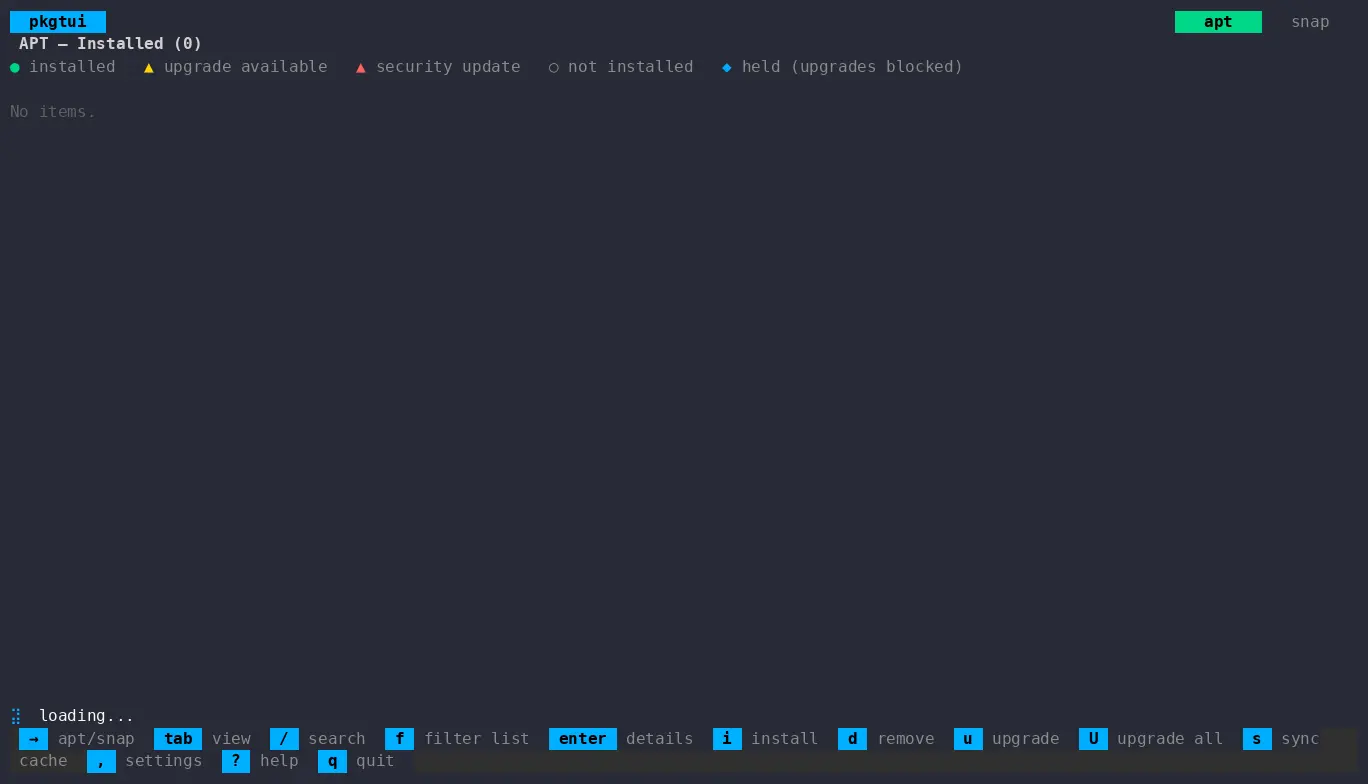
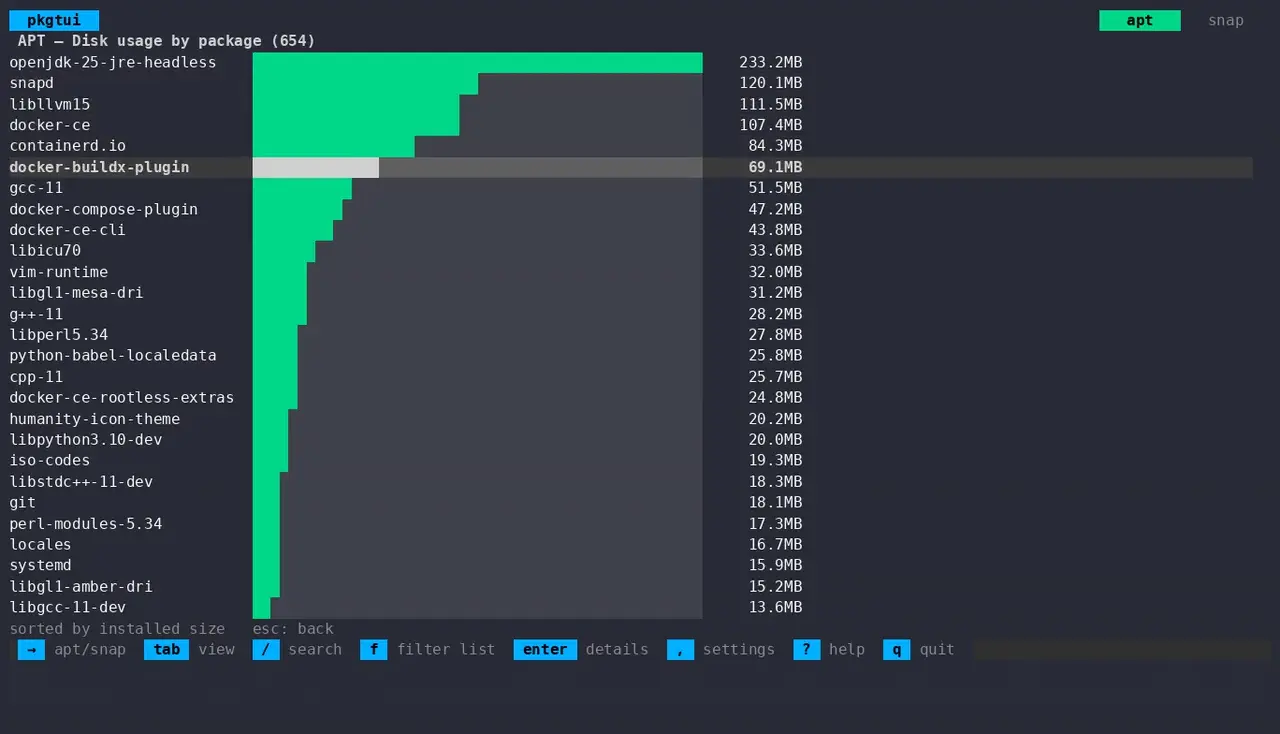
Show terminal demos in animated viewer with aligned preview cards

Changed region(s): [[0.0, 0.0, 0.875, 0.9891], [0.375, 0.8692, 0.75, 0.8992], [0.9062, 0.9292, 0.9688, 0.9591]]

diff --git a/src/styles/global.css b/src/styles/global.css
@@ -299,13 +299,6 @@ footer{align-items:center}
 .section-heading>div{max-width:720px}
 .section-heading>p{max-width:290px}
 .project-links .study-link{background:#c1b3ff18;border-color:#c1b3ff40;color:#e3dbff}
-.demo-details{margin:0 24px 12px;border:1px solid #ffffff18;border-radius:16px;background:#10172860;overflow:hidden}
-.demo-details summary{cursor:pointer;padding:15px 17px;font-size:14px;color:var(--cyan);display:flex;justify-content:space-between;gap:12px;list-style:none}
-.demo-details summary::-webkit-details-marker{display:none}
-.demo-details[open] summary{border-bottom:1px solid var(--line)}
-.demo-details figure{margin:0;padding:12px}
-.demo-details video{display:block;width:100%;height:auto;background:#111626;border-radius:9px}
-.demo-details figcaption{font-size:12px;line-height:1.7;color:var(--muted);padding:12px 3px 0}
 .career-list ul{padding-left:20px;margin:15px 0 0;color:var(--muted);font-size:16px;line-height:1.8}
 .career-list li+li{margin-top:12px}
 .case-study{padding:36px 0 75px}
@@ -374,3 +367,12 @@ footer{align-items:center}
 @media(max-width:760px){.screenshot-open{width:calc(100% - 30px)}.screenshot-tabs{margin-right:15px;margin-left:15px}.screenshot-tabs button{padding:6px;gap:6px;font-size:11px}.screenshot-tabs img{width:32px;height:20px}.image-viewer{width:calc(100vw - 20px);max-height:calc(100dvh - 20px);padding:10px;border-radius:16px}.viewer-title{font-size:12px}.viewer-toolbar{gap:8px}.viewer-controls{gap:4px}.viewer-controls button{width:36px;height:36px}}
 
 .screenshot-open img{object-fit:contain}
+
+/* Demo cards keep their height when a recording is opened. */
+.compact-project{display:grid;grid-template-rows:auto 1fr auto auto}
+.compact-project .project-links{margin-top:0}
+.demo-play{position:absolute;bottom:18px;left:50%;transform:translateX(-50%);display:flex;align-items:center;gap:8px;padding:10px 16px;white-space:nowrap;border:1px solid #ffffff35;border-radius:999px;background:#111626dd;color:var(--text);font:600 13px var(--sans);backdrop-filter:blur(10px);transition:background .2s,border-color .2s}
+.screenshot-open:has(.demo-play){cursor:pointer}
+.screenshot-open:hover .demo-play{background:#52456bdd;border-color:#c1b3ff90}
+.viewer-video{display:block;width:100%;max-height:calc(100dvh - 140px);border-radius:12px;background:#0c1120}
+.viewer-image[hidden],.viewer-video[hidden]{display:none}

diff --git a/src/data/content.ts b/src/data/content.ts
@@ -18,8 +18,7 @@ export const content = {
     repos: 'public repositories', stars: 'GitHub stars across my projects', thread: 'THE COMMON THREAD', threadText: 'Practical software. A Linux state of mind.',
     selected: '01 / SELECTED WORK', projectsTitle: 'Useful tools. Built with purpose.', projectsIntro: 'The problems, the software, and the decisions behind it.',
     repository: 'Repository', docs: 'Website & docs', readDocs: 'Read the docs', caseStudy: 'Behind the build',
-    demo: 'Watch the terminal demo', demoCaption: 'Original recording from the project repository. Play and pause using the video controls.',
-    demoFallback: 'Download the demo video',
+    demo: 'Watch the terminal demo',
     archive: 'More from the workbench', more: 'more repositories', fallback: 'Explore the repository',
     snapshot: 'Repository snapshot: October 3, 2026. Stars and releases refresh from GitHub when available.',
     behind: '02 / BEHIND THE CODE', aboutTitle: 'Systems thinker. Hands-on builder.',
@@ -54,8 +53,7 @@ export const content = {
     repos: 'repository pubblici', stars: 'stelle GitHub sui miei progetti', thread: 'IL FILO CONDUTTORE', threadText: 'Software pratico. Una mentalità Linux.',
     selected: '01 / PROGETTI SELEZIONATI', projectsTitle: 'Strumenti utili. Idee concrete.', projectsIntro: 'I problemi, il software e le scelte che ci sono dietro.',
     repository: 'Repository', docs: 'Sito e documentazione', readDocs: 'Documentazione', caseStudy: 'Dietro il progetto',
-    demo: 'Guarda la demo da terminale', demoCaption: 'Registrazione originale dal repository del progetto. Usa i controlli del video per avviare e mettere in pausa.',
-    demoFallback: 'Scarica il video della demo',
+    demo: 'Guarda la demo da terminale',
     archive: 'Altri progetti dal laboratorio', more: 'altri repository', fallback: 'Esplora il repository',
     snapshot: 'Dati dei repository: 3 ottobre 2026. Stelle e versioni si aggiornano da GitHub quando disponibile.',
     behind: '02 / DIETRO IL CODICE', aboutTitle: 'Una visione di sistema. Le mani nel codice.',
